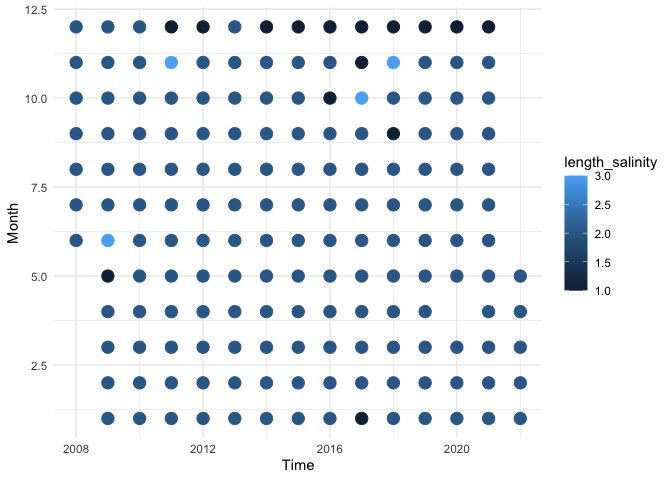
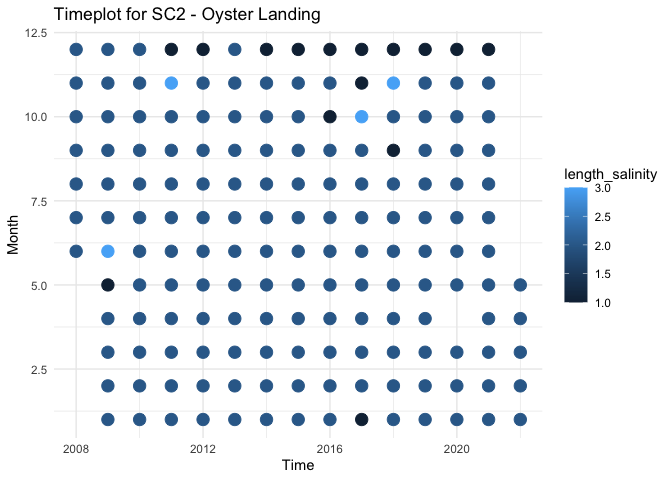
knit updating SC2 with new template edits
knit updating SC2 with new template edits

diff --git a/2022_SiteEnvironmentData/SC2-EnvrData.md b/2022_SiteEnvironmentData/SC2-EnvrData.md
@@ -1,4 +1,4 @@
-Environmental Data Extraction Template
+SC2 - Processed Environmental Data
 ================
 Madeline Eppley
 7/6/2023
@@ -215,20 +215,30 @@ envrplot <- ggplot(SC2, aes(x = datetime)) +
     theme_minimal()
 
 salplot <- ggplot(SC2, aes(x = datetime)) +
-    geom_line(aes(y = salinity, color = "Salinity (ppt)")) +
+    geom_line(aes(y = salinity, color = "Salinity (ppt)", title = "Salinity Plot for SC2 - Oyster Landing")) +
     ylim(0,40) +
     labs(x = "Time", y = "Salinity ppt") +
     scale_color_manual(values = c("Salinity (ppt)" = "blue")) +
     theme_minimal()
+```
 
+    ## Warning in geom_line(aes(y = salinity, color = "Salinity (ppt)", title =
+    ## "Salinity Plot for SC2 - Oyster Landing")): Ignoring unknown aesthetics: title
+
+``` r
 tempplot <- ggplot(SC2, aes(x = datetime)) +
-    geom_line(aes(y = temp, color = "Temperature (C)")) +
+    geom_line(aes(y = temp, color = "Temperature (C)"), title = "Temperature Plot for SC2 - Oyster Landing") +
     ylim(0, 45) +
     labs(x = "Time", y = "Temperature C") +
     scale_color_manual(values = c( "Temperature (C)" = "red")) +
     theme_minimal()
+```
 
+    ## Warning in geom_line(aes(y = temp, color = "Temperature (C)"), title =
+    ## "Temperature Plot for SC2 - Oyster Landing"): Ignoring unknown parameters:
+    ## `title`
 
+``` r
 envrplot
 ```
 
@@ -328,7 +338,7 @@ print(SC2_envryear)
 ``` r
 timeplot <- ggplot(SC2_envrmonth, aes(x = year)) +
     geom_point(aes(y = month, color = length_salinity), size = 4) +
-    labs(x = "Time", y = "Month") +
+    labs(x = "Time", y = "Month", title = "Timeplot for SC2 - Oyster Landing") +
     ylim(1,12) +
     theme_minimal()
 
@@ -397,6 +407,11 @@ write.table(SC2_temp, "/Users/madelineeppley/GitHub/EasternOysterEnvData/2022_Si
     ## appending column names to file
 
 ``` r
+# Write to a unique new CSV file
+write.csv(SC2_temp, "/Users/madelineeppley/GitHub/EasternOysterEnvData/2022_SiteEnvironmentData/Seascape_Processed/SC2_temperature.csv")
+```
+
+``` r
 #Calculate the salinity variables
 Mean_Annual_Salinity_ppt <- mean(SC2$salinity)
 Mean_max_Salinity_ppt <- mean(SC2_envryear$max_salinity)
@@ -427,3 +442,8 @@ write.table(SC2_salinity, "/Users/madelineeppley/GitHub/EasternOysterEnvData/202
     ## Warning in write.table(SC2_salinity,
     ## "/Users/madelineeppley/GitHub/EasternOysterEnvData/2022_SiteEnvironmentData/Seascape_Processed/seascape_salinity.csv", :
     ## appending column names to file
+
+``` r
+# Write to a unique new CSV file
+write.csv(SC2_salinity, "/Users/madelineeppley/GitHub/EasternOysterEnvData/2022_SiteEnvironmentData/Seascape_Processed/SC2_salinity.csv")
+```
